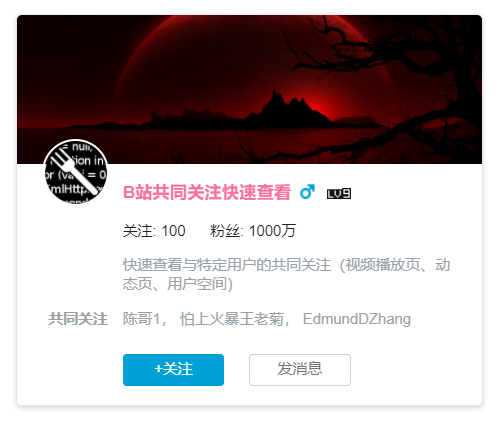
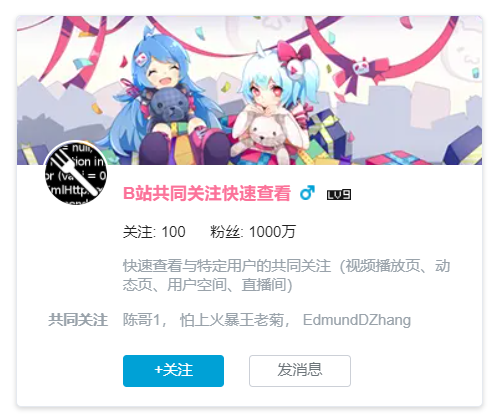
B站共同关注快速查看 1.4.0.20210712
* 功能实现：在直播间中快速查看。

diff --git a/script/BilibiliSameFollowing/BilibiliSameFollowing.js b/script/BilibiliSameFollowing/BilibiliSameFollowing.js
@@ -1,9 +1,9 @@
 // ==UserScript==
 // @name            B站共同关注快速查看
-// @version         1.3.7.20210711
+// @version         1.4.0.20210712
 // @namespace       laster2800
 // @author          Laster2800
-// @description     快速查看与特定用户的共同关注（视频播放页、动态页、用户空间）
+// @description     快速查看与特定用户的共同关注（视频播放页、动态页、用户空间、直播间）
 // @icon            https://www.bilibili.com/favicon.ico
 // @homepage        https://greasyfork.org/zh-CN/scripts/428453
 // @supportURL      https://greasyfork.org/zh-CN/scripts/428453/feedback
@@ -11,6 +11,9 @@
 // @include         *://www.bilibili.com/*
 // @include         *://t.bilibili.com/*
 // @include         *://space.bilibili.com/*
+// @include         *://live.bilibili.com/*
+// @exclude         *://live.bilibili.com/
+// @exclude         *://live.bilibili.com/*/*
 // @exclude         *://t.bilibili.com/h5/dynamic/specification
 // @exclude         *://www.bilibili.com/page-proxy/game-nav.html
 // @exclude         /.*:\/\/.*:\/\/.*/
@@ -34,12 +37,13 @@
   const gm = {
     id: 'gm428453',
     configVersion: GM_getValue('configVersion'),
-    configUpdate: 20210627,
+    configUpdate: 20210712,
     config: {
       failMessage: true,
       withoutSameMessage: true,
       dispInText: false,
       userSpace: true,
+      live: true,
       lv1Card: true,
       lv2Card: true,
       lv3Card: false,
@@ -49,6 +53,7 @@
       withoutSameMessage: { name: '无共同关注时提示信息' },
       dispInText: { name: '以纯文本形式显示共同关注' },
       userSpace: { name: '在用户空间中快速查看' },
+      live: { name: '在直播间中快速查看' },
       lv1Card: { name: '在常规用户卡片中快速查看' },
       lv2Card: { name: '在扩展用户卡片中快速查看' },
       lv3Card: { name: '在罕见用户卡片中快速查看' },
@@ -58,6 +63,7 @@
       page_videoWatchlaterMode: /\.com\/medialist\/play\/watchlater(?=[/?#]|$)/,
       page_dynamic: /t\.bilibili\.com(?=[/?#]|$)/,
       page_space: /space\.bilibili\.com\/\d+(?=[/?#]|$)/,
+      page_live: /live\.bilibili\.com\/\d+(?=[/?#]|$)/, // 只含具体的直播间页面
     },
     const: {
       notificationTimeout: 5600,
@@ -134,7 +140,7 @@
         // 内部不能使用 gm.configUpdate，必须手写更新后的配置版本号！
 
         // 功能性更新后更新此处配置版本
-        if (gm.configVersion < 0) {
+        if (gm.configVersion < 20210712) {
           GM_notification({ text: '功能性更新完毕，您可能需要重新设置脚本。' })
         }
         gm.configVersion = gm.configUpdate
@@ -244,10 +250,14 @@
      * @param {Object} config 配置
      * @param {string | number} config.uid 用户 ID
      * @param {HTMLElement} config.target 指定信息显示元素的父元素
-     * @param {string} [config.className=''] 显示元素的类名
+     * @param {string} [config.className=''] 显示元素的类名；若 `target` 的子孙节点中有对应元素则直接使用，否则创建之
      */
     async generalLogic(config) {
       try {
+        let sf = config.className ? config.target.querySelector(config.className.replaceAll(/(^|\s+)(?=\w)/g, '.')) : null
+        if (sf) {
+          sf.innerHTML = ''
+        }
         const resp = await api.web.request({
           method: 'GET',
           url: `https://api.bilibili.com/x/relation/same/followings?vmid=${config.uid}`,
@@ -266,8 +276,10 @@
             }
           }
           if (sameFollowings.length > 0 || gm.config.withoutSameMessage) {
-            const sf = config.target.appendChild(document.createElement('div'))
-            sf.className = config.className || ''
+            if (!sf) {
+              sf = config.target.appendChild(document.createElement('div'))
+              sf.className = config.className || ''
+            }
             if (sameFollowings.length > 0) {
               if (gm.config.dispInText) {
                 sf.innerHTML = `<div>共同关注</div><div class="same-following">${sameFollowings.join('，&nbsp;')}</div>`
@@ -284,8 +296,10 @@
           }
         } else {
           if (gm.config.failMessage && json.message) {
-            const sf = config.target.appendChild(document.createElement('div'))
-            sf.className = config.className || ''
+            if (!sf) {
+              sf = config.target.appendChild(document.createElement('div'))
+              sf.className = config.className || ''
+            }
             sf.innerHTML = `<div>共同关注</div><div>[ ${json.message} ]</div>`
           }
           const msg = [json.code, json.message]
@@ -342,6 +356,14 @@
         .${gm.id}.space-same-followings > :first-child {
           font-weight: bold;
           padding-right: 1em;
+        }
+
+        .${gm.id}.live-same-followings > * {
+          display: block;
+        }
+        .${gm.id}.live-same-followings > :first-child {
+          margin-top: 1em;
+          font-weight: bold;
         }
       `)
     }
@@ -417,6 +439,26 @@
           user: '.idc-avatar-container',
           info: '.idc-info',
         })
+      }
+    } else if (api.web.urlMatch(gm.regex.page_live)) {
+      if (gm.config.live) {
+        // 直播间点击弹幕弹出的信息卡片
+        const container = await api.wait.waitQuerySelector('.danmaku-menu')
+        const userLink = await api.wait.waitQuerySelector('.go-space a', container)
+        container.style.maxWidth = '300px'
+        container.style.transform = 'translateX(-120px)'
+
+        const ob = new MutationObserver(async records => {
+          const uid = webpage.method.getUidFromUrl(records[0].target.href)
+          if (uid) {
+            webpage.generalLogic({
+              uid: uid,
+              target: container,
+              className: `${gm.id} live-same-followings`,
+            })
+          }
+        })
+        ob.observe(userLink, { attributeFilter: ['href'] })
       }
     }
     webpage.addStyle()

diff --git a/script/BilibiliSameFollowing/screenshot/用户卡片.template.html b/script/BilibiliSameFollowing/screenshot/用户卡片.template.html
@@ -3,7 +3,7 @@
   <div class="info">
     <p class="user"><a target="_blank" class="name vip-red-name">B站共同关注快速查看</a><i class="sex men"></i><a target="_blank"><i class="level l9"></i></a></p>
     <p class="social"><a target="_blank">关注: <span class="like">100</span></a><a target="_blank">粉丝: <span class="fans">1000万</span></a></p>
-    <p class="sign">快速查看与特定用户的共同关注（视频播放页、动态页、用户空间）</p>
+    <p class="sign">快速查看与特定用户的共同关注（视频播放页、动态页、用户空间、直播间）</p>
   </div>
   <div class="btn-box"><a class="like " mid="" uname="B站共同关注快速查看"><span class="default-text">+关注</span><span class="hover-text">取消关注</span></a><a target="_blank" class="message">发消息</a></div>
 </div>

diff --git a/script/BilibiliSameFollowing/README.md b/script/BilibiliSameFollowing/README.md
@@ -2,7 +2,7 @@
 
 相关脚本：**[B站稍后再看功能增强](https://greasyfork.org/zh-CN/scripts/395456)**、**[B站封面获取](https://greasyfork.org/zh-CN/scripts/395575)**、**[B站防剧透进度条](https://greasyfork.org/zh-CN/scripts/411092)**
 
-快速查看与特定用户的共同关注（视频播放页、动态页、用户空间），详情查看下方截图。求好评，求收藏💔。点击查看 [更新日志](https://gitee.com/liangjiancang/userscript/blob/master/script/BilibiliSameFollowing/changelog.md)。
+快速查看与特定用户的共同关注（视频播放页、动态页、用户空间、直播间），详情查看下方截图。求好评，求收藏💔。点击查看 [更新日志](https://gitee.com/liangjiancang/userscript/blob/master/script/BilibiliSameFollowing/changelog.md)。
 
 ## 配置说明
 
@@ -36,6 +36,10 @@
 * 用户空间
 
     ![用户空间](https://gitee.com/liangjiancang/userscript/raw/master/script/BilibiliSameFollowing/screenshot/用户空间.png)
+
+* 直播间
+
+    ![直播间](https://gitee.com/liangjiancang/userscript/raw/master/script/BilibiliSameFollowing/screenshot/直播间.png)
 
 *gitee: [BilibiliSameFollowing](https://gitee.com/liangjiancang/userscript/tree/master/script/BilibiliSameFollowing)*
 

diff --git a/script/BilibiliSameFollowing/changelog.md b/script/BilibiliSameFollowing/changelog.md
@@ -2,6 +2,10 @@
 
 本日志只记录用户友好的更新说明，影响不大的问题修复与修改不作记录，具体修改见 [提交记录](https://gitee.com/liangjiancang/userscript/commits/master/script/BilibiliSameFollowing/BilibiliSameFollowing.js)。
 
+## V1.4
+
+1. 功能实现：在直播间中快速查看。
+
 ## V1.3
 
 1. API：升级至 V1.1，大幅优化元素等待逻辑。详见 [UserscriptAPI 更新日志](https://gitee.com/liangjiancang/userscript/blob/master/lib/UserscriptAPI/changelog.md)。
